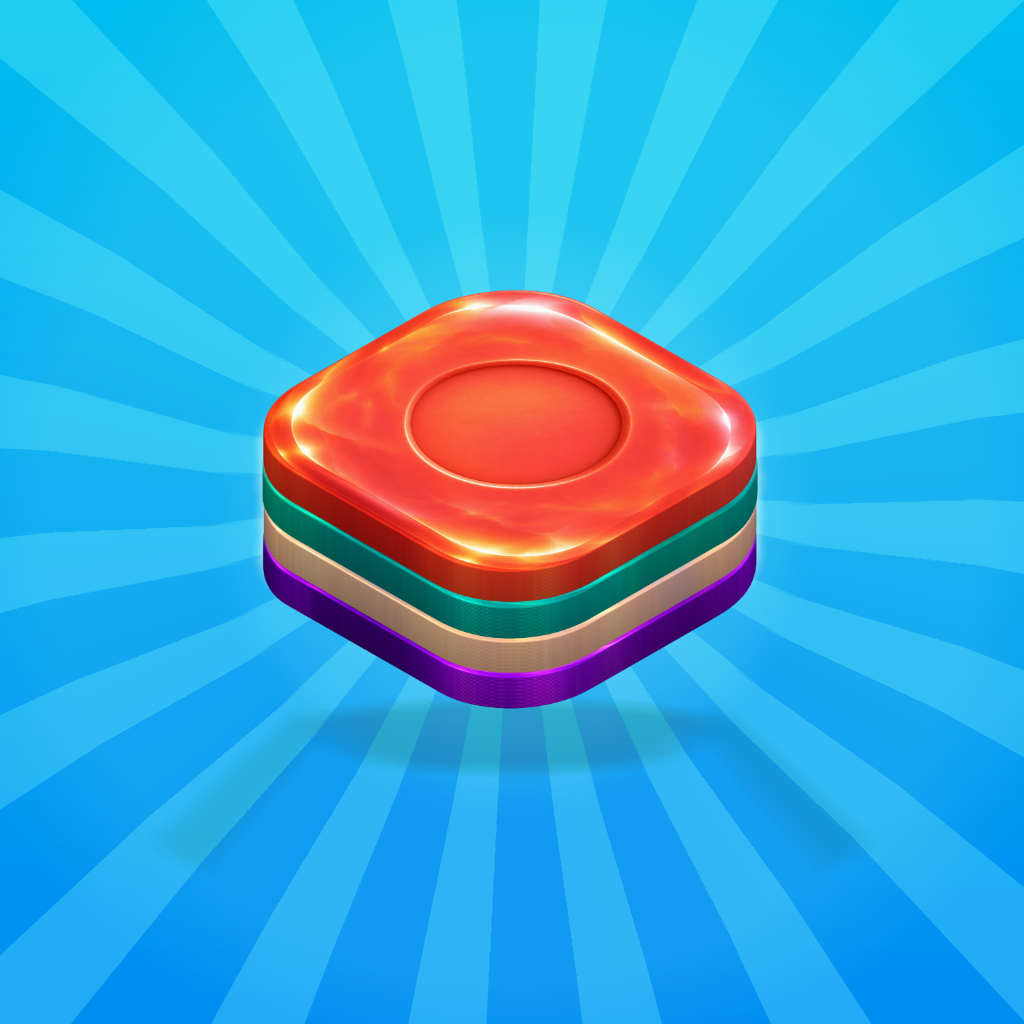
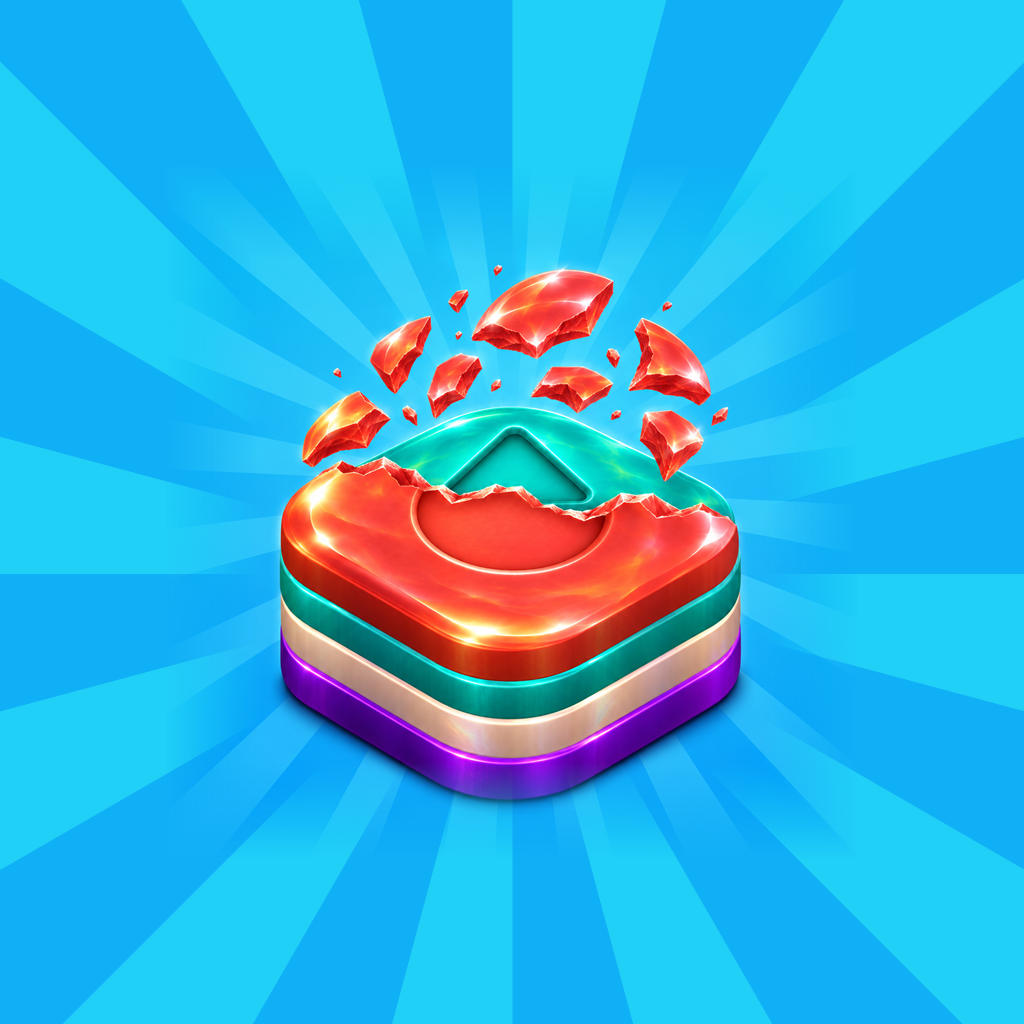
Yeni uygulama ikonu (1.0.1 için)

diff --git a/Assets/KatKat/Editor/BuildScripts.cs b/Assets/KatKat/Editor/BuildScripts.cs
@@ -49,8 +49,8 @@ namespace KatKat.EditorTools
 
         public const string IconPath = "Assets/KatKat/Art/app-icon.png";
 
-        /// <summary>Uygulama ikonu (2026-11-08): docs/gorseller/arayuz/uygulama-ikonu-yeni.png (taş yığını, mavi ışın zemin, 1024).
-        /// Android uyarlanabilir: app-icon-bg = ışınlar + güvenli bölgede %68 ikon, app-icon-fg = saydam.</summary>
+        /// <summary>Uygulama ikonu (2026-11-10, 1.0.1 için): docs/gorseller/arayuz/uygulama-ikonu-yeni_v2.png (patlayan kırmızı katmanlı taş yığını, mavi ışın zemin; 1024). Önceki ikon arşivde: KatKat_Arsiv_2026-11-06/ikon_1.0_2026-11-10.
+        /// Android uyarlanabilir: app-icon-bg = yeni görselin renkleriyle çizilmiş ışınlar + güvenli bölgede %68 ikon (kenarı yumuşak), app-icon-fg = saydam.</summary>
         private static Texture2D IconTex(string path)
         {
             var imp = AssetImporter.GetAtPath(path) as TextureImporter;

diff --git a/docs/KARARLAR.md b/docs/KARARLAR.md
@@ -92,3 +92,4 @@ Eski ayrıntılı karar günlüğü arşivde (`KatKat_Arsiv_2026-11-06/docs/KARA
 - 2026-11-09 (kullanıcı: "kurallar çerçevesinde uygulama puanı da isteyelim"): **Uygulama içi puan isteği** yalnız sistem penceresiyle (iOS `Device.RequestStoreReview`, Apple yönergesi 5.6.1; özel soru ekranı ve ödül yok). Koşullar (`Meta/ReviewRules.cs`): en az 15 bölüm bitmiş, yardımsız 3 yıldızlı kazanımdan sonra zafer kartında Devam'a basınca, geçiş reklamı gösterilmeyen geçişte, iki istek arası en az 120 gün, en çok 3 istek. Apple ayrıca yılda en çok 3 kez gösterir. Android'de henüz yok.
 - 2026-11-09: **iOS yapı numarası** CI'da Info.plist'e Mac adımında yazılır (`PlistBuddy`, `github.run_number`). Önceden GameCI ortam değişkenini aktarmadığından hep "1" gidiyordu; run 9 "1" olarak yüklendi, run 10 bu yüzden reddedildi.
 - 2026-11-09 gece: **ATT izin penceresi** eklendi. App Store Connect gizlilik sayfası, yapıda NSUserTrackingUsageDescription olduğu (AdMob eklentisi ekler) ama izin istenmediği için uyardı. AB rıza formundan sonra, AdMob başlamadan önce sistem ATT penceresi istenir (`Plugins/iOS/KatKatNative.mm` KatKat_RequestTracking, `Ads/AdMobNetwork.cs`); cevap ne olursa olsun reklamlar başlar. AppTrackingTransparency.framework UnityFramework'e zayıf bağlanır (`IosPostBuild`). Gizlilik beyanında reklam verisi (cihaz kimliği) "izleme amaçlı" işaretlenmeli.
+- 2026-11-10 (kullanıcı: "yeni logo uygulama-ikonu-yeni_v2.png", "1.0.1'e kalsın"): **Yeni uygulama ikonu 1.0.1 ile.** İncelemedeki 1.0 eski ikonla kalır (gönderim geri çekilmez). `Assets/KatKat/Art/app-icon.png` ve `app-icon-legacy.png` yeni görselden 1024; Android uyarlanabilir zemin (`app-icon-bg.png`) yeni renklerle ışın + %68 ikon. Eski dosyalar `KatKat_Arsiv_2026-11-06/ikon_1.0_2026-11-10`. Sürüm numarası (ProjectSetup bundleVersion 1.0.0) 1.0 yayınlandıktan sonra 1.0.1'e çekilecek.

diff --git a/docs/DURUM.md b/docs/DURUM.md
@@ -241,3 +241,4 @@ Son güncelleme: 2026-11-09. Oyunun tam tanımı: [OYUN.md](OYUN.md). Kararlar: 
   - Kalan (kullanıcı): App Privacy formu (reklam verisi/cihaz kimliği izleme amaçlı; Game Center kimliği/adı ve oyun içeriği kimliğe bağlı; Analytics ürün etkileşimi kimliğe bağlı değil) → Publish; sonra Add for Review → Submit. Onaydan sonra otomatik yayın seçili.
 - 2026-11-10 sabah (kullanıcıyla adım adım): App Privacy yayınlandı (9 veri türü; reklam/konum/etkileşim/cihaz kimliği izleme amaçlı, User ID ve Gameplay Content kimliğe bağlı). Gizlilik adresi 6 dile girildi (tr → ?lang=tr, diğerleri ?lang=en). İçerik hakları (Yes + rights) ve yaş derecelendirmesi (4+; Advertising Yes, Contests Infrequent; Afganistan ve Fas'ta satılmaz; Kore için GRAC notu) kaydedildi. Japonca iPhone 05_gunluk yeniden yüklendi (takılıydı). Ekran görüntüsü sırası kullanıcı tercihi: 03,02,01,05,04,06. Yayın: elle (MANUAL). Yapı 12 bağlı. **İncelemeye gönderildi** (kullanıcı, 2026-11-10; durum "Waiting for Review"). Onaydan sonra "Release This Version" ile elle yayın.
 - 2026-11-10: TestFlight'ta reklam gelmiyor (kullanıcı). Sebep kod değil: AdMob'da Stone Burst iOS "İnceleme gerekli / Sınırlı reklam sunumu — limiti kaldırmak için mağaza ekleyin". Kimlikler doğru, ofigame.com/app-ads.txt yayında. Yapılacak: App Store yayınından sonra AdMob → Uygulamalar → Stone Burst → Mağaza ekle (App Store bağlantısı) → AdMob incelemesi (birkaç gün) → reklam sunumu açılır. Kendi cihazında gerçek reklama tıklama; gerekirse AdMob test cihazı tanımla.
+- 2026-11-10: Yeni ikon (uygulama-ikonu-yeni_v2.png) projeye kondu, 1.0.1'de çıkacak; 1.0 incelemede eski ikonla. Henüz derlenmedi; küçük boyut önizlemesi (40–180 px) kontrol edildi. 1.0.1 için: 1.0 yayınlandıktan sonra bundleVersion 1.0.1, yeni iOS derlemesi, App Store Connect'te 1.0.1 sürümü.
